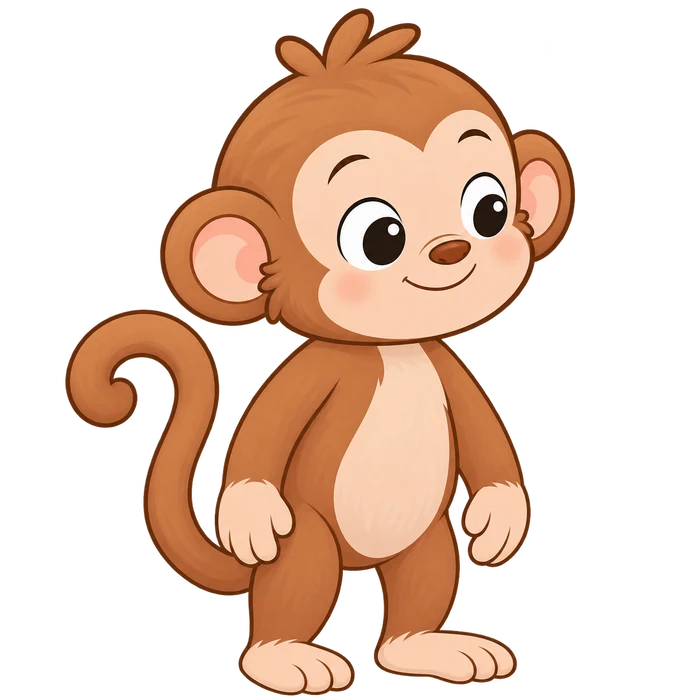
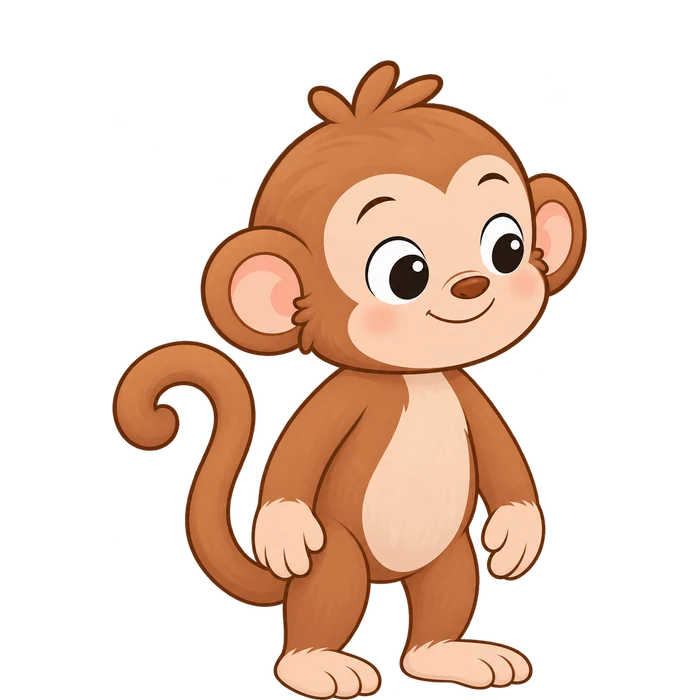
Kurumedeva: fix oversized monkey sprites, keep Elephant in log-lift pose
Re-exported monkey-neutral and monkey-celebrate to the same frame proportions
as the other monkey art (celebrate was a tall 418x627 frame, ~44% too big).
Elephant now stays in the log-lift pose after helping instead of reverting to idle.

diff --git a/src/zones/shloka-river/scenes/Scene3/KurumedevaGame.jsx b/src/zones/shloka-river/scenes/Scene3/KurumedevaGame.jsx
@@ -74,7 +74,7 @@ const FRIENDS = [
     label: 'Elephant',
     idleImg: elephantIdleBananaImg, // idle, eating a banana, before being asked
     helpingImg: elephantHelpingImg, // helping settle the logs into place
-    watchingImg: elephantIdleBananaImg, // placeholder until an elephant-neutral pose exists
+    watchingImg: elephantHelpingImg, // stays in the log-lift pose after helping (never back to idle)
     celebrateImg: elephantCelebrateImg,
     helpBubbleImg: helpBubbleElephantImg,
   },
